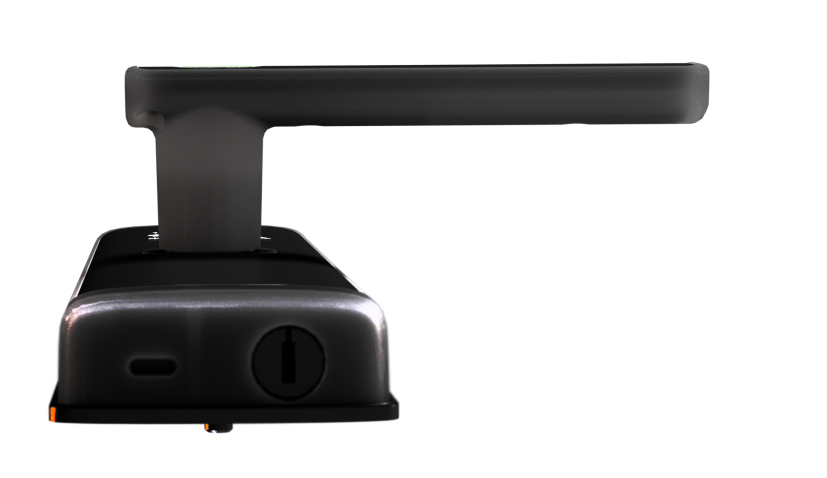
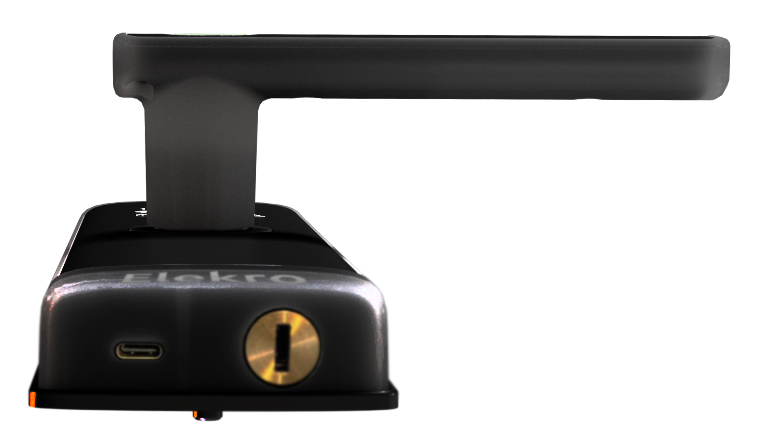
tirando textos centralizados e atualizando imagens novas

Changed region(s): [[0.0304, 0.0625, 0.9723, 0.9375], [0.1519, 0.75, 0.2127, 0.8125]]

diff --git a/src/pages/elekro-one-plus/index.vue b/src/pages/elekro-one-plus/index.vue
@@ -14,7 +14,7 @@ import 'swiper/css/pagination';
         <Title>Elekro One Plus</Title>
     </Head>
     <main>
-        <section class="relative h-screen">
+        <section class="relative h-screen overflow-hidden">
             <div class="py-5 md:px-10 px-2 absolute z-[1] h-full">
                 <div class="mx-auto max-w-[1900px] flex items-center h-full relative">
                     <div class="w-full">
@@ -28,19 +28,19 @@ import 'swiper/css/pagination';
                 <img class="h-full object-cover w-full" src="/images/elekro-one/Header.png" alt="Fundo do cabeçalho"/>
             </figure>
             
-            <figure class="hidden lg:block absolute left-1/2 -translate-x-1/2 top-1/2 -translate-y-1/2 h-full">
-                <img class="w-full h-full" src="/images/elekro-one/ElekroDupla.png" alt="Duas fechaduras">
+            <figure class="hidden lg:block w-full h-full object-contain">
+                <img class="w-[60%] h-auto object-cover absolute left-1/2 -translate-x-1/2 top-1/2 -translate-y-1/2" src="/images/elekro-one/ElekroDupla.png" alt="Duas fechaduras">
             </figure>
             
              
         </section>
-        <section class="pt-10">
+        <section class="pt-10 overflow-hidden">
             <div class="max-w-[1900px] mx-auto md:px-10 px-1 h-full">
                 <div class="md:grid md:grid-cols-3  content-center ">
-                    <div class="col-start-1 col-end-3 border-2 border-black md:h-[800px] relative">
-                        <div class="bg-black text-white h-[70%] py-12 px-12 ">
-                            <a class="lg:text-xl ml-0 border px-2 py-1 border-white text-white rounded-lg" href="javascript:void(0)">Exclusiva no Brasil</a>
-                            <h2 class="text-3xl lg:text-5xl sm:pt-32 pt-10 h2-title">Inspirada na obra <br> de Stefano Boeri,<br> Bosco Verticale.</h2>
+                    <div class="col-start-1 col-end-3 md:border-2 md:border-black md:h-[800px] relative">
+                        <div class="md:bg-black md:text-white h-[70%] py-12 px-12 ">
+                            <a class="lg:text-xl ml-0 border px-2 py-1 md:border-white border-black md:text-white rounded-lg" href="javascript:void(0)">Exclusiva no Brasil</a>
+                            <h2 class="text-3xl lg:text-5xl sm:pt-32 pt-10 h2-title md:w-[413px]">Inspirada na obra  de Stefano Boeri, Bosco Verticale.</h2>
                             <h3 class="h3-title sm:pt-10 pt-5">/ Milão . Itália</h3>
                         </div>
                         <div class="md:flex gap-10 h-[30%] items-center justify-around  absolute bottom-0 w-full hidden ">
@@ -61,17 +61,19 @@ import 'swiper/css/pagination';
                             </div>
                             <div class="flex items-center flex-col">
                                 <figure>
-                                    <img class="lg:block hidden" src="/images/elekro-one/IconeSmartLife.png" alt="Icone Smart Life">
-                                    <img class="lg:hidden block" src="/images/elekro-one/mobile/06Mobile_IconeSmartLife.png" alt="Icone Smart Life">
+                                    <img class="lg:block hidden" src="/images/elekro-one/IconeSmartLifeBlack.png" alt="Icone Smart Life">
+                                    <img class="lg:hidden block" src="/images/elekro-one/mobile/06Mobile_IconeSmartLifeBlack.png" alt="Icone Smart Life">
                                 </figure>
                                 <h3 class="titleh3 text-center">Com gerenciamento <br> Smart Life</h3>
                             </div>
                         </div>
                     </div>
-                    <figure class="h-max ">
-                        <img class="object-cover w-full h-[800px] max-md:hidden" src="/images/elekro-one/BoscoVerticale.png" alt="Prédios com varandas de flores"/>
-                        <img class="object-cover w-full md:hidden " src="/images/elekro-one/mobile/03Mobile_BoscoVerticale.png" alt="Prédios com varandas de flores"/>
-                    </figure>
+                    <div class="w-auto mx-[-5px]">
+                        <figure class="w-full">
+                            <img class="object-cover w-full h-[800px] max-md:hidden" src="/images/elekro-one/BoscoVerticale.png" alt="Prédios com varandas de flores"/>
+                            <img class="w-full md:hidden " src="/images/elekro-one/mobile/03Mobile_BoscoVerticale.png" alt="Prédios com varandas de flores"/>
+                        </figure>
+                    </div>
                     <div class="flex flex-wrap gap-10 h-[30%] items-center justify-around  bottom-0 w-full md:hidden">
                         <div class="flex items-center flex-col">
                             <figure>
@@ -103,7 +105,7 @@ import 'swiper/css/pagination';
                         <button class="linksB lg:!mb-40">Assista ao vídeo</button>
                         <div class="justify-self-end relative pt-10 pb-10 max-lg:block hidden" >
                             <figure>
-                                <img class="max-lg:block hidden" src="/images/elekro-one/mobile/08Mobile_Fechadura.png" alt="Fechadura"/>
+                                <img class="max-lg:block hidden" src="/images/elekro-one/FechaduraGeracao.png" alt="Fechadura"/>
                             </figure>
                             <div class="absolute top-7 left-1/2 -translate-x-1/2">
                                 <img src="/images/elekro-one/mobile/07Mobile_SeloFechadura.png" alt="Selo de autenticação">
@@ -115,9 +117,9 @@ import 'swiper/css/pagination';
                             <h4 class="lg:max-w-[19rem] titleh4">Getway integrado, acesso biométrico, gestão de acesso em tempo real, remoto e muito mais</h4>
                         </div>
                     </div>
-                    <div class="lg:block hidden justify-self-end relative">
-                        <figure>
-                            <img class="" src="/images/elekro-one/FechaduraGeracao.png" alt="Fechadura"/>
+                    <div class="lg:block hidden justify-self-end relative h-full">
+                        <figure class="h-full">
+                            <img class="h-full" src="/images/elekro-one/FechaduraGeracao.png" alt="Fechadura"/>
                         </figure>
                         <div class="absolute -bottom-14 left-1/2 -translate-x-1/2">
                             <img src="/images/elekro-one/SeloFechadura.png" alt="Selo de autenticação">
@@ -129,7 +131,7 @@ import 'swiper/css/pagination';
         </section>
         <section class="pt-5 lg:border-t-2">
             <div class="max-w-[1900px] mx-auto md:px-10 px-1 h-full ">
-                <div class="max-w-[1300px] mx-auto h-full max-lg:text-center max-lg:border-t-2">
+                <div class="max-w-[1300px] mx-auto h-full  max-lg:border-t-2">
                     <h2 class="titleh2">Explore a <br> Elekro Signature</h2>
                     <h3 class="lg:max-w-96 titleh3">PROJETADA PARA AS CONDIÇÕES CLIMÁTICAS DO BRASIL</h3>
                     <h4 class="titleh4">Construída em liga de alumínio e com proteção IP56 (resistente à corrosão, à <br> água* e poeira) <span class="text-[12px]">*Proteção limitada. Protegida de jatos de água de alta pressão de qualquer direção.</span></h4>
@@ -141,18 +143,18 @@ import 'swiper/css/pagination';
                         <figure>
                             <img class="max-h-[600px]  object-cover w-full" src="/images/elekro-one/DesignFuncional.png" alt="Fechadura em porta de Madeira de fundo">
                         </figure>
-                        <div class="absolute lg:bottom-[10%] bottom-10 left-1/2 -translate-x-1/2 ">
+                        <div class="absolute lg:bottom-[10%] bottom-10 left-1/2 -translate-x-1/2 max-lg:text-center max-md:w-full">
                             <h2 class="text-[#aaaaaa] mb-4">COM DESIGN FUNCIONAL</h2>
-                            <h3 class="max-w-96 text-white text-lg max-sm:text-sm">Construída com um design funcional, facilmente adaptada para abrir tanto para o lado esquerdo, quanto direito.</h3>
+                            <h3 class="w-[340px] max-sm:w-[320px] text-white text-md max-sm:text-sm mx-auto">Construída com um design funcional, facilmente adaptada para abrir tanto para o lado esquerdo, quanto direito.</h3>
                         </div>
                     </div>
                     <div class="relative">
                         <figure>
                             <img class="max-h-[600px]  object-cover w-full" src="/images/elekro-one/Ecossistemas.png" alt="Sala com luminarias de fundo">
                         </figure>
-                        <div class="absolute lg:bottom-[10%] bottom-6 left-1/2 -translate-x-1/2">
+                        <div class="absolute lg:bottom-[10%] bottom-10 left-1/2 -translate-x-1/2 max-lg:text-center max-md:w-full">
                             <h2 class="text-[#aaaaaa] mb-4">CRIE ECOSISTEMAS DO SEU JEITO</h2>
-                            <h3 class="max-w-96 text-white text-lg max-sm:text-sm ">Ao abrir sua porta, luzes podem se acender, temperatura de ambiente serem ajustadas e muito mais, tudo através do aplicativo.</h3>
+                            <h3 class="w-[340px] max-sm:w-[320px] text-white text-md max-sm:text-sm mx-auto">Ao abrir sua porta, luzes podem se acender, temperatura de ambiente serem ajustadas e muito mais, tudo através do aplicativo.</h3>
                         </div>
                      </div>
                 </div>
@@ -161,11 +163,11 @@ import 'swiper/css/pagination';
         <section class="max-w-[1900px] mx-auto md:px-10 px-1 h-full pt-5">
             <div class="max-w-[1300px] mx-auto h-full">
                 <div class="grid md:grid-cols-2">
-                    <div class="max-md:text-center">
+                    <div class="">
                         <h2 class="titleh2">Diversas funções e <br> criptografia <br> segura</h2>
                         <h3 class="titleh3">Criptografia com <br> Chip integrado de proteção</h3>
                     </div>
-                    <div class="md:justify-self-end max-md:pt-10 max-md:text-center">
+                    <div class="md:justify-self-end max-md:pt-10 ">
                         <div class="mb-5">
                             <h3 class="titleh3">MODOS DE ACESSO</h3>
                             <h4 class="max-w-96 titleh4">Acesso Privado, apenas para o administrador e acesso livre, para que qualquer um acesse</h4>
@@ -182,17 +184,17 @@ import 'swiper/css/pagination';
                             <img class="object-cover w-full" src="/images/elekro-one/FechaduraBateria.png" alt=""/>
                         </figure>
                     </div>
-                    <div class="lg:absolute bottom-14 lg:bottom-24 right-0 max-lg:text-center pt-5">
+                    <div class="lg:absolute bottom-14 lg:bottom-24 right-0 pt-5">
                         <button class="m-0 linksB">Bateria inteligente</button>
                         <h3 class="titleh3">ALERTAS DE BATERIA E VIOLAMENTO</h3>
                         <h4 class="lg:max-w-96 titleh4">adicionando o getway da Elekro, receba aviso de bateria fraca, violamento ou tentativa indevida de abertura da fechadura.</h4>
                     </div>
                 </div>
-                <div class="grid lg:grid-cols-2 max-lg:text-center">
+                <div class="grid lg:grid-cols-2">
                     <div class="lg:block hidden ">
                         <h4 class="lg:max-w-96 titleh4">Caso não veja o alarme, você ainda  pode abrir a porta utilizando a <span class="font-semibold">chave mestra ou então utilizar a entrada USB </span> localizada na parte de baixo para energizar a fechadura.</h4>
                     </div>
-                    <div class="flex lg:justify-self-end gap-28 lg:max-w-96 max-lg:text-center justify-around pt-5">
+                    <div class="flex lg:justify-self-end lg:gap-28 lg:max-w-96 justify-between pt-5">
                         <div>
                             <img src="/images/elekro-one/IconeVolume.png" alt="Icone de volume">
                             <h4 class="font-semibold mt-1">Gerenciamento <br> de volume de voz</h4>
@@ -205,7 +207,7 @@ import 'swiper/css/pagination';
                 </div>
                 <div>
                     <div class="max-lg:block hidden ">
-                        <h4 class="lg:max-w-96 titleh4 max-md:text-center">Caso não veja o alarme, você ainda  pode abrir a porta utilizando a <span class="font-semibold">chave mestra ou então utilizar a entrada USB </span> localizada na parte de baixo para energizar a fechadura.</h4>
+                        <h4 class="lg:max-w-96 titleh4">Caso não veja o alarme, você ainda  pode abrir a porta utilizando a <span class="font-semibold">chave mestra ou então utilizar a entrada USB </span> localizada na parte de baixo para energizar a fechadura.</h4>
                     </div>
                     <div>
                         <figure class="max-lg:block hidden">
@@ -254,16 +256,16 @@ import 'swiper/css/pagination';
         </aside>
         <section class="max-w-[1900px] mx-auto md:px-10 px-1 h-full pt-5">
             <div class="max-w-[1300px] mx-auto h-full" >
-                <div class="grid lg:grid-cols-2 pb-10 max-lg:text-center">
+                <div class="grid lg:grid-cols-2 pb-10">
                     <div class="flex flex-col ">
                         <h3 class="titleh3">CADASTRE ATÉ 100 <br> BIOMETRIAS E ATÉ 100 <br> SENHAS NUMÉRICAS <br> DIFERENTES</h3>
-                        <h4 class="max-w-96 max-lg:mx-auto titleh4">Ideal para empresas, você pode dar acesso a diversos funcionários e parceiros com as senhas biométricos ou numéricas. Além disso, é possível gerenciar todo o acesso por meio do aplicativo com: historico permissões e áreas restritas, inclusão e exclusão em tempo real e muito mais.</h4>
+                        <h4 class="max-w-96 titleh4">Ideal para empresas, você pode dar acesso a diversos funcionários e parceiros com as senhas biométricos ou numéricas. Além disso, é possível gerenciar todo o acesso por meio do aplicativo com: historico permissões e áreas restritas, inclusão e exclusão em tempo real e muito mais.</h4>
                     </div>
                     <div class="flex flex-col lg:justify-self-end">
                         <h3 class="titleh3">CRIE SENHA COM HORÁRIO <br> DE ENTRADA E SAÍDA</h3>
-                        <h4 class="max-w-96 max-lg:mx-auto titleh4">Com a função de Check-in e Check-out crise senhas com data de entrada e saída. Perfeito para Airbnb ou locações por temporada.</h4>
+                        <h4 class="max-w-96  titleh4">Com a função de Check-in e Check-out crise senhas com data de entrada e saída. Perfeito para Airbnb ou locações por temporada.</h4>
                         <h3 class="titleh3">LIBERE O ACESSO COM A SENHA DINÂMICA</h3>
-                        <h4 class="max-w-96 max-lg:mx-auto titleh4">Ideal para imobiliárias, você pode criar uma senha dinâmica, de uso único. Garanta o acesso de forma segura, rápida e prática.</h4>
+                        <h4 class="max-w-96 titleh4">Ideal para imobiliárias, você pode criar uma senha dinâmica, de uso único. Garanta o acesso de forma segura, rápida e prática.</h4>
                     </div>
                 </div>
                 <div class="border-t-2 pt-5">
@@ -273,7 +275,7 @@ import 'swiper/css/pagination';
                             <img src="/images/elekro-one/AmazonGoogle.png" alt="Foto de uma Amazon Alexa e Google Assistant">
                         </figure>
                     </div>
-                    <div class="grid lg:grid-cols-2 max-lg:text-center">
+                    <div class="grid lg:grid-cols-2">
                         <div class="flex flex-col">
                             <h3 class="titleh3">DESTRAVE E VERIFIQUE O <br class="lg:block hidden"> STATUS DA FECHADURA <br class="lg:block hidden"> COM SIMPLES COMANDOS <br class="lg:block hidden"> DE VOZ</h3>
                             <h4 class="lg:max-w-96 titleh4">Função disponível com o nosso sistema de travamento ativado por voz.</h4>
@@ -308,45 +310,45 @@ import 'swiper/css/pagination';
                     :navigation="{ prevEl: '.prev-button', nextEl: '.next-button' }">
                         <SwiperSlide>
                             <div class="grid md:grid-cols-2 justify-items-center justify-center">
-                                <div class="text-white max-md:bg-black py-20 max-md:py-5 max-2xl:text-center max-2xl:px-3">
+                                <div class="text-white max-md:bg-black py-20 max-md:py-5 max-2xl:px-3">
                                     <h3 class="titleh3">INTEGRAÇÃO</h3>
-                                    <h4 class="2xl:max-w-96 titleh4 max-xl:text-center">O Smart Life pode ser integrado a outros dispositivos domésticos inteligentes, como sistemas de segurança, câmeras de vigilancia e dispositivos de iluminação. Isso permite automatizar tarefas e criar cenários personalizados.</h4>
+                                    <h4 class="2xl:max-w-96 titleh4">O Smart Life pode ser integrado a outros dispositivos domésticos inteligentes, como sistemas de segurança, câmeras de vigilancia e dispositivos de iluminação. Isso permite automatizar tarefas e criar cenários personalizados.</h4>
                                 </div>
-                                <div class="lg:justify-self-end py-20 max-md:py-5 max-2xl:text-center max-2xl:px-3">
+                                <div class="lg:justify-self-end py-20 max-md:py-5  max-2xl:px-3">
                                     <h3 class="titleh3">CONTROLE REMOTO</h3>
-                                    <h4 class="2xl:max-w-96 titleh4 max-xl:text-center">adicionando o getway da Elekro, com o Smart Life, os usuários podem controlar suas fechaduras inteligentes remotamente por meio do aplicativo em seus dispositivos móveis. isso permite destrancar portas de qualquer lugar, oferecendo conveniência e segurança adicional.</h4>
+                                    <h4 class="2xl:max-w-96 titleh4">adicionando o getway da Elekro, com o Smart Life, os usuários podem controlar suas fechaduras inteligentes remotamente por meio do aplicativo em seus dispositivos móveis. isso permite destrancar portas de qualquer lugar, oferecendo conveniência e segurança adicional.</h4>
                                 </div>
                             </div>
                         </SwiperSlide>
                         <SwiperSlide>
                             <div class="grid md:grid-cols-2 ">
-                                <div class="text-white max-md:bg-black py-20 max-md:py-5 max-2xl:text-center max-2xl:px-3 ">
+                                <div class="text-white max-md:bg-black py-20 max-md:py-5 max-2xl:px-3 ">
                                     <h3 class="titleh3">NOTIFICAÇÕES EM TEMPO REAL</h3>
-                                    <h4 class="2xl:max-w-96 titleh4 max-xl:text-center">O Smart Life pode enviar notificações  em tempo real para o celular do usuário sempre que ocorrer uma atividade na  fechadura inteligente, como tentativas  de acesso não autorizado ou a entrada  de um convidado.</h4>
+                                    <h4 class="2xl:max-w-96 titleh4">O Smart Life pode enviar notificações  em tempo real para o celular do usuário sempre que ocorrer uma atividade na  fechadura inteligente, como tentativas  de acesso não autorizado ou a entrada  de um convidado.</h4>
                                 </div>
-                                <div class="lg:justify-self-end py-20 max-md:py-5 max-2xl:text-center max-2xl:px-3 ">
+                                <div class="lg:justify-self-end py-20 max-md:py-5  max-2xl:px-3 ">
                                     <h3 class="titleh3">HISTÓRICO DE ACESSOS</h3>
-                                    <h4 class="2xl:max-w-96 titleh4 max-xl:text-center">Ele mantém um registro detalhado de todas as atividades de destravamento de fechadura, permitindo que os usuários visualizem o histórico de acesso para monitoramento e segurança</h4>
+                                    <h4 class="2xl:max-w-96 titleh4 ">Ele mantém um registro detalhado de todas as atividades de destravamento de fechadura, permitindo que os usuários visualizem o histórico de acesso para monitoramento e segurança</h4>
                                 </div>
                             </div>
                         </SwiperSlide>
                         <SwiperSlide>
                             <div class="grid md:grid-cols-2 ">
-                                <div class="text-white max-md:bg-black py-20 max-md:py-5 max-2xl:text-center max-2xl:px-3">
+                                <div class="text-white max-md:bg-black py-20 max-md:py-5 max-2xl:px-3">
                                     <h3 class="titleh3">CONTROLE POR VOZ</h3>
-                                    <h4 class="2xl:max-w-96 titleh4 max-xl:text-center">Integrado com assistentes de voz como Amazon Alexa e Google Assistant, o Smart Life permite qur os usuários controlem suas fechaduras inteligentes usando comandos de voz simples.</h4>
+                                    <h4 class="2xl:max-w-96 titleh4 ">Integrado com assistentes de voz como Amazon Alexa e Google Assistant, o Smart Life permite qur os usuários controlem suas fechaduras inteligentes usando comandos de voz simples.</h4>
                                 </div>
-                                <div class="lg:justify-self-end py-20 max-md:py-5 max-2xl:text-center max-2xl:px-3">
+                                <div class="lg:justify-self-end py-20 max-md:py-5  max-2xl:px-3">
                                     <h3 class="titleh3">ALERTAS DE BATERIA </h3>
-                                    <h4 class="2xl:max-w-96 titleh4 max-xl:text-center">O sistema Smart Life pode enviar alertas quando a bateria da fechadura inteligente estiver fraca, garantindo que os usuários saibam quando é necessário trocar a bateria para evitar interrupções no funcionamento.</h4>
+                                    <h4 class="2xl:max-w-96 titleh4">O sistema Smart Life pode enviar alertas quando a bateria da fechadura inteligente estiver fraca, garantindo que os usuários saibam quando é necessário trocar a bateria para evitar interrupções no funcionamento.</h4>
                                 </div>
                             </div>
                         </SwiperSlide>
                         <SwiperSlide>
                             <div class="grid md:grid-cols-2 ">
-                                <div class="text-white max-md:bg-black py-20 max-md:py-5 max-2xl:text-center max-2xl:px-3">
+                                <div class="text-white max-md:bg-black py-20 max-md:py-5 max-2xl:px-3">
                                     <h3 class="titleh3">GERENCIAMENTO DE USUÁRIOS</h3>
-                                    <h4 class="2xl:max-w-96 titleh4 max-xl:text-center">Adicione ou remova usuários autorizados rapidamente. Tenha total gerenciamento das permissoões de acesso e controle facilmente o acesso de visitantes em cenários residencias, sociais e comercias.</h4>
+                                    <h4 class="2xl:max-w-96 titleh4">Adicione ou remova usuários autorizados rapidamente. Tenha total gerenciamento das permissoões de acesso e controle facilmente o acesso de visitantes em cenários residencias, sociais e comercias.</h4>
                                 </div>
                             </div>
                         </SwiperSlide>
@@ -357,45 +359,45 @@ import 'swiper/css/pagination';
                     :pagination="{clickable: true, el: '.pagination-mobile'}"
                     :navigation="{ prevEl: '.prev-button', nextEl: '.next-button' }">
                         <SwiperSlide >
-                                <div class="text-white bg-black h-[344px] py-10 text-center px-3">
+                                <div class="text-white bg-black h-[344px] py-10 px-3">
                                     <h3 class="titleh3">INTEGRAÇÃO</h3>
-                                    <h4 class="titleh4 text-center">O Smart Life pode ser integrado a outros dispositivos domésticos inteligentes, como sistemas de segurança, câmeras de vigilancia e dispositivos de iluminação. Isso permite automatizar tarefas e criar cenários personalizados.</h4>
+                                    <h4 class="titleh4">O Smart Life pode ser integrado a outros dispositivos domésticos inteligentes, como sistemas de segurança, câmeras de vigilancia e dispositivos de iluminação. Isso permite automatizar tarefas e criar cenários personalizados.</h4>
                                 </div>
                             </SwiperSlide>
                             <SwiperSlide>
-                            <div class="py-10 text-center px-3">
+                            <div class="py-10  px-3">
                                 <h3 class="titleh3">CONTROLE REMOTO</h3>
-                                <h4 class="titleh4 text-center">adicionando o getway da Elekro, com o Smart Life, os usuários podem controlar suas fechaduras inteligentes remotamente por meio do aplicativo em seus dispositivos móveis. isso permite destrancar portas de qualquer lugar, oferecendo conveniência e segurança adicional.</h4>
+                                <h4 class="titleh4">adicionando o getway da Elekro, com o Smart Life, os usuários podem controlar suas fechaduras inteligentes remotamente por meio do aplicativo em seus dispositivos móveis. isso permite destrancar portas de qualquer lugar, oferecendo conveniência e segurança adicional.</h4>
                             </div>
                         </SwiperSlide>
                         <SwiperSlide>
-                            <div class="text-white bg-black py-10 h-[344px] text-center px-3 ">
+                            <div class="text-white bg-black py-10 h-[344px] px-3 ">
                                     <h3 class="titleh3">NOTIFICAÇÕES EM TEMPO REAL</h3>
-                                    <h4 class="titleh4 text-center">O Smart Life pode enviar notificações  em tempo real para o celular do usuário sempre que ocorrer uma atividade na  fechadura inteligente, como tentativas  de acesso não autorizado ou a entrada  de um convidado.</h4>
+                                    <h4 class="titleh4">O Smart Life pode enviar notificações  em tempo real para o celular do usuário sempre que ocorrer uma atividade na  fechadura inteligente, como tentativas  de acesso não autorizado ou a entrada  de um convidado.</h4>
                                 </div>
                         </SwiperSlide>
                         <SwiperSlide>
-                            <div class="py-10 text-center px-3 ">
+                            <div class="py-10 px-3 ">
                                     <h3 class="titleh3">HISTÓRICO DE ACESSOS</h3>
-                                    <h4 class="titleh4 text-center">Ele mantém um registro detalhado de todas as atividades de destravamento de fechadura, permitindo que os usuários visualizem o histórico de acesso para monitoramento e segurança</h4>
+                                    <h4 class="titleh4">Ele mantém um registro detalhado de todas as atividades de destravamento de fechadura, permitindo que os usuários visualizem o histórico de acesso para monitoramento e segurança</h4>
                                 </div>
                         </SwiperSlide>
                         <SwiperSlide>
-                            <div class="text-white bg-black py-14 px-3 h-[344px] text-center">
+                            <div class="text-white bg-black py-14 px-3 h-[344px]">
                                     <h3 class="titleh3">CONTROLE POR VOZ</h3>
-                                    <h4 class="titleh4 text-center">Integrado com assistentes de voz como Amazon Alexa e Google Assistant, o Smart Life permite qur os usuários controlem suas fechaduras inteligentes usando comandos de voz simples.</h4>
+                                    <h4 class="titleh4">Integrado com assistentes de voz como Amazon Alexa e Google Assistant, o Smart Life permite qur os usuários controlem suas fechaduras inteligentes usando comandos de voz simples.</h4>
                                 </div>
                         </SwiperSlide>
                         <SwiperSlide>
-                            <div class="py-10 px-3 text-center">
+                            <div class="py-10 px-3">
                                     <h3 class="titleh3">ALERTAS DE BATERIA </h3>
-                                    <h4 class="titleh4 text-center">O sistema Smart Life pode enviar alertas quando a bateria da fechadura inteligente estiver fraca, garantindo que os usuários saibam quando é necessário trocar a bateria para evitar interrupções no funcionamento.</h4>
+                                    <h4 class="titleh4">O sistema Smart Life pode enviar alertas quando a bateria da fechadura inteligente estiver fraca, garantindo que os usuários saibam quando é necessário trocar a bateria para evitar interrupções no funcionamento.</h4>
                                 </div>
                         </SwiperSlide>
                         <SwiperSlide>
-                                <div class="text-white bg-black py-10 h-[344px] text-center px-3">
+                                <div class="text-white bg-black py-10 h-[344px] px-3">
                                     <h3 class="titleh3">GERENCIAMENTO DE USUÁRIOS</h3>
-                                    <h4 class="titleh4 text-center">Adicione ou remova usuários autorizados rapidamente. Tenha total gerenciamento das permissoões de acesso e controle facilmente o acesso de visitantes em cenários residencias, sociais e comercias.</h4>
+                                    <h4 class="titleh4">Adicione ou remova usuários autorizados rapidamente. Tenha total gerenciamento das permissoões de acesso e controle facilmente o acesso de visitantes em cenários residencias, sociais e comercias.</h4>
                                 </div>
                         </SwiperSlide>
                         <div class="flex relative">
@@ -439,8 +441,8 @@ import 'swiper/css/pagination';
             <button class="linksB absolute xl:-top-40 xl:right-[28%] max-sm:-top-24 -top-32 !cursor-pointer max-sm:right-[10%] max-md:!text-[10px] max-md!py-1 max-md:!px-1 right-[10%]">Analisar de perto</button>
             <div class="bg-black text-white relative">
                 <figure class="absolute lg:left-1/2 lg:-translate-x-1/2  -translate-y-3/4 max-xl:w-full">
-                    <img class="w-full max-md:hidden" src="/images/elekro-one/FechaduraFicha.png" alt="Fechadura deitada na pagina">
-                    <img class="w-full md:hidden" src="/images/elekro-one/mobile/19Mobile_FechaduraFicha.png" alt="Fechadura deitada na pagina">
+                    <img class="w-full " src="/images/elekro-one/FechaduraFicha2.png" alt="Fechadura deitada na pagina">
+                    <!-- <img class="w-full md:hidden" src="/images/elekro-one/mobile/19Mobile_FechaduraFicha.png" alt="Fechadura deitada na pagina"> -->
                 </figure>
                 <div class="max-w-[1900px] mx-auto md:px-10 px-1 h-full">
                     <div class="max-w-[1300px] mx-auto h-full text-center md:pt-36 pt-10 pb-5">
@@ -515,7 +517,7 @@ import 'swiper/css/pagination';
 
 <style scoped>
 .banner-title{
-    @apply text-start text-[50px] md:text-[80px] lg:text-[60px] xl:text-[80px] font-bold leading-[40px] md:leading-[50px] lg:leading-[100px] lg:mt-5 mt-8;
+    @apply text-start text-[30px] md:text-[80px] lg:text-[60px] xl:text-[80px] font-bold leading-[40px] md:leading-[70px] lg:leading-[100px] lg:mt-5 mt-8;
 }
 .banner-text{
     @apply lg:max-w-[250px] text-xl lg:text-2xl xl:text-5xl text-start font-light lg:mt-0 mt-2;
